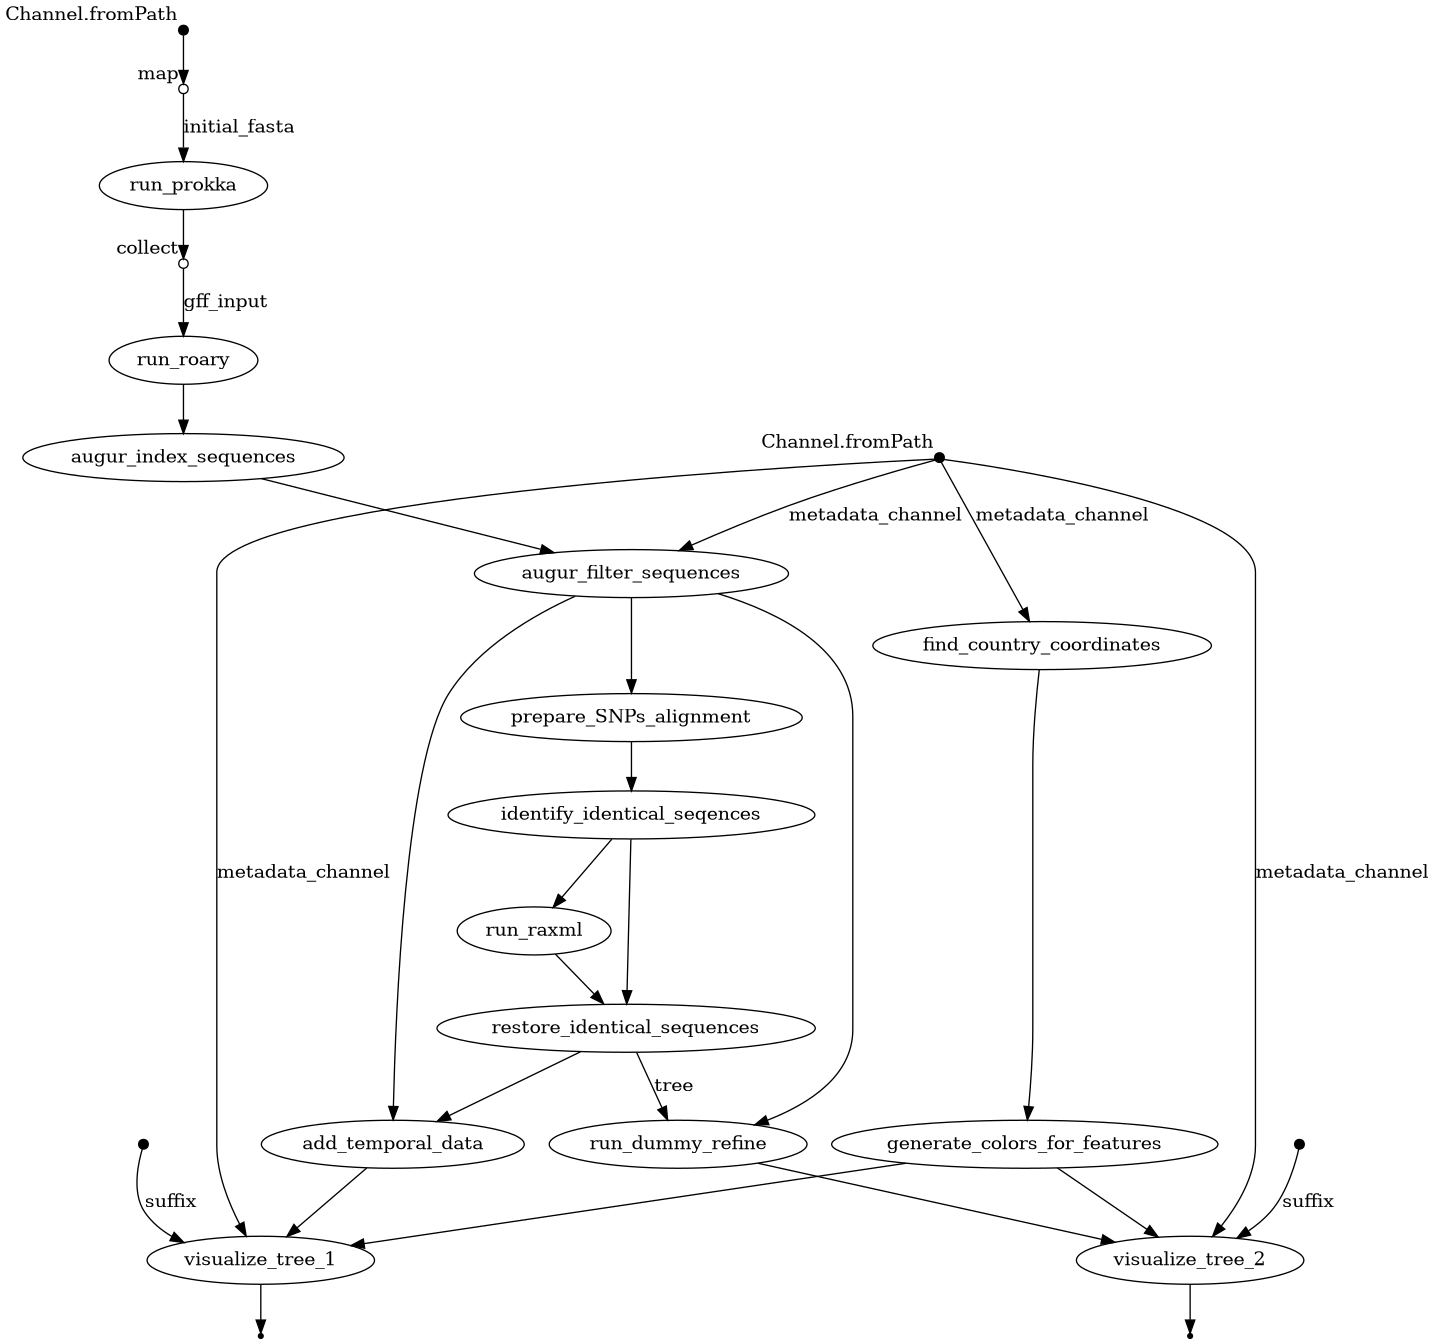
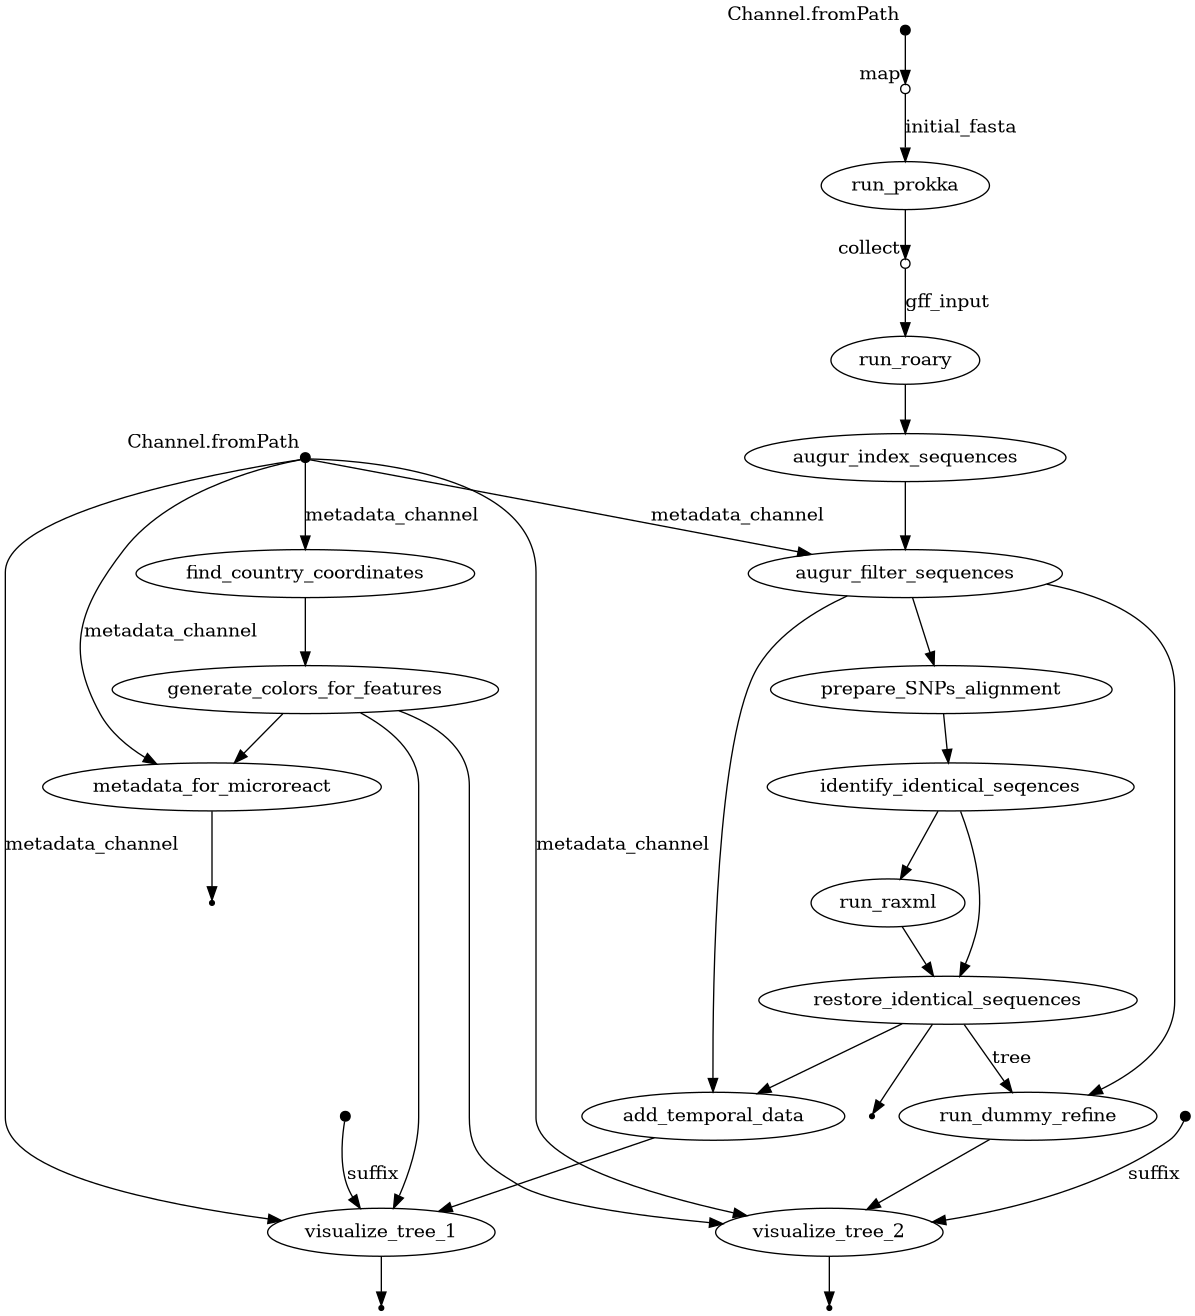
Updated DAG for the pipeline + made some clarification to README

diff --git a/README.md b/README.md
@@ -13,8 +13,6 @@ To execute bacterial pipeline type
 
 Assuming you're in a directory containing the `metadata.txt` file and a `fastas/` directory where each sample’s genome is in a separate FASTA file, run:
 
-### Minimal Execution Example
-
 ```bash
 bash nf_pipeline_bacterial_phylo.sh -m metadata.txt \
                                     -i fastas/ \
@@ -27,7 +25,7 @@ bash nf_pipeline_bacterial_phylo.sh -m metadata.txt \
 
 The `metadata.txt` file must be a tab-separated file with the following **required columns**:
 
-- `strain` – sample identifier, STR
+- `strain` – sample identifier, string. 
 - `date` – date associated with the sample in `YYYY-MM-DD` format  
 - `region` – continent associated with the sample (e.g. `Europe`)  
 - `country` – country associated with the sample (e.g. `France`)  
@@ -35,3 +33,8 @@ The `metadata.txt` file must be a tab-separated file with the following **requir
 - `city` – city associated with the sample (e.g. `Paris`)  
 - `Serovar` – serovar associated with the sample (e.g. `Enteritidis`)  
 - `MLST` – MLST ID associated with the sample, number (e.g. `11`)
+
+### Naming Scheme
+
+If the input files in the `fastas/` directory are named like `ERRXYZ.fasta`, the program will convert them to GFF format using Prokka. The resulting GFF files will be named `ERRXYZ_prokka.gff`. As a result, when using FASTA input, the `strain` column in the metadata must match the GFF filenames, i.e., it should be `ERRXYZ_prokka`. If the input type is already GFF (i.e., files are named like `ERRXYZ.gff`), then the `strain` column can simply be `ERRXYZ`.
+
